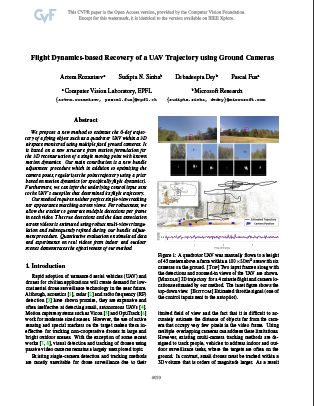
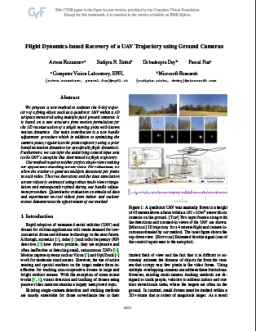
updates

diff --git a/proj/UAVTrajRecon/index.html b/proj/UAVTrajRecon/index.html
@@ -6,56 +6,55 @@
 <tbody>
 <tr>
 <td colspan="2" rowspan="1"><div style="text-align: center;">
-</div><h1 style="font-weight: normal; text-align: center;"><b>Flight Dynamics-based Recovery of a UAV Trajectory using Ground Cameras</b><small>
-</small></h1><div style="text-align: center;">
+</div><h2 style="font-weight: normal; text-align: center;"><b>Flight Dynamics-based Recovery of a UAV Trajectory using Ground Cameras</b><small>
+</small></h2><div style="text-align: center;">
 <span style="font-size: 16pt;" lang="EN-US"><o:p></o:p></span>
-<big><a href="">Artem Rozantsev</a>&nbsp;<small>1</small>&nbsp;
-<a href="http://snsinha.github.io" target="_blank">Sudipta N. Sinha</a>&nbsp;<small>2</small>&nbsp;
-<a href="https://www.debadeepta.com/" target="_blank">Debadeepta Dey</a>&nbsp;<small>2</small>&nbsp;
-<big><a href="">Pascal Fua</a>&nbsp;<small>1</small>&nbsp;
-<br><small><small><small>1</small></small></small>EPFL, Switzerland
-<br><small><small><small>2</small></small></small>Microsoft Research Redmond, USA&nbsp;
-<br><br>CVPR 2017<br><br></big></div>
+<a href="https://www.researchgate.net/profile/Artem_Rozantsev">Artem Rozantsev</a>&nbsp;<small><sup>1</sup></small>&nbsp;&nbsp;&nbsp;
+<a href="http://snsinha.github.io" target="_blank">Sudipta N. Sinha</a>&nbsp;<small><sup>2</sup></small>&nbsp;&nbsp;&nbsp;
+<a href="https://www.debadeepta.com/" target="_blank">Debadeepta Dey</a>&nbsp;<small><sup>2</sup></small>&nbsp;&nbsp;&nbsp;
+<a href="https://people.epfl.ch/cgi-bin/people?id=112366&op=bio&lang=en&cvlang=en">Pascal Fua</a>&nbsp;<small><sup>1</sup></small><br><br>
+<small><sup>1</sup></small> EPFL, Switzerland &nbsp; &nbsp; &nbsp; &nbsp;
+<small><sup>2</sup></small> Microsoft Research Redmond, USA&nbsp;
+<br><br>
+<big>CVPR 2017</big>
+<br><br></div>
 </td>
 </tr>
 <tr>
 <td rowspan="1" style="text-align: center;">
-<!--
--->
-&nbsp;
 <iframe width="560" height="315" src="//www.youtube.com/embed/udZdh0VsxvM" frameborder="0" allowfullscreen></iframe>
-&nbsp;
 </td>
 </tr>
 <tr>
 <td><span style="font-weight: bold;"><font size=5>Abstract</font><br>&nbsp;<br></span>
-We propose a new method to estimate the 6-dof trajectory of a ?ying object such as a 
-quadrotor UAV within a 3D airspace monitored using multiple ?xed ground cameras. It 
+We propose a new method to estimate the 6-dof trajectory of a flying object such as a 
+quadrotor UAV within a 3D airspace monitored using multiple fixed ground cameras. It 
 is based on a new structure from motion formulation for the 3D reconstruction of a 
 single moving point with known motion dynamics. Our main contribution is a new bundle 
 adjustment procedure which in addition to optimizing the camera poses, regularizes the 
-point trajectory using a prior based on motion dynamics (or speci?cally ?ight dynamics). 
+point trajectory using a prior based on motion dynamics (or specifically flight dynamics). 
 Furthermore, we can infer the underlying control input sent to the UAV's autopilot that 
-determined its ?ight trajectory. Our method requires neither perfect single-view tracking 
+determined its flight trajectory. Our method requires neither perfect single-view tracking 
 nor appearance matching across views. For robustness, we allow the tracker to generate 
 multiple detections per frame in each video. The true detections and the data association 
-across videos is estimated using robust multi-view triangulation and subsequently re?ned 
+across videos is estimated using robust multi-view triangulation and subsequently refined 
 during our bundle adjustment procedure. Quantitative evaluation on simulated data and 
 experiments on real videos from indoor and outdoor scenes demonstrates the effectiveness 
 of our method.
-
-<br><span style="font-size: 11pt; line-height: 115%;" lang="EN-US"></span></td><td style="text-align: center; width: 350px; vertical-align: middle;"> <br><br>
-<img style="width: 292px;" alt="paper" src="image001.png"><br><div style="text-align: center;">
-<a href="https://snsinha.github.io/pdfs/RozantsevCVPR2017.pdf" target="_blank">[PDF]</a> <a href="bibtex.txt" target="_blank">[Bibtex]</a>
-<a href="https://www.youtube.com/watch?v=Z_K-KW6HAn0" [CVPR talk]</a> 
+<br><span style="font-size: 11pt; line-height: 115%;" lang="EN-US"></span>
+</td>
+<td style="text-align: center; width: 350px; vertical-align: middle;">
+<img style="width: 128px;" alt="paper" src="image001.png"><br><div style="text-align: center;">
+<a href="https://snsinha.github.io/pdfs/RozantsevCVPR2017.pdf" target="_blank">[PDF]</a> 
+<a href="bibtex.txt" target="_blank">[Bibtex]</a>
+<a href="https://www.youtube.com/watch?v=Z_K-KW6HAn0">[CVPR 2017 talk]</a> 
 <br></div></td>
 </tr>
 <tr>
 <td colspan=2>
-<span style="font-weight: bold;"><font size=5>Dataset download</font><br>&nbsp;<br></span>
+<span style="font-weight: bold;"><font size=5>Dataset</font><br>&nbsp;<br></span>
 
-Coming Soon!</td>
-
+Please email <span style="font-weight: bold;"><font size=3>sudipta.sinha@microsoft.com</font></span> and request a download link!</td>
 
 </tr>
 </tbody>
